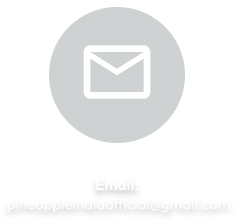
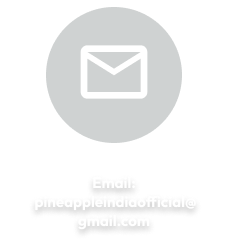
made responsive updates

diff --git a/src/Components/ContactUs.module.css b/src/Components/ContactUs.module.css
@@ -19,24 +19,47 @@
   display: flex;
   justify-content: center;
   align-items: center;
+  gap: 2rem; /* Add some space between the images */
+  flex-wrap: wrap; /* Allow images to wrap on smaller screens */
 }
 
 .image img {
-  width: 30vw; /* Responsive width */
+  width: 20vw; /* Responsive width */
   height: auto;
-  max-width: 900px; /* Set max width to limit image size */
-  
+  max-width: 200px; /* Set max width to limit image size */
 }
 
-@media (max-width: 768px) {
+.contactAddress img{
+  width:10vw; 
+  height: auto;
+  max-width: 150px; 
+  margin-left: 1.8rem;
+  margin-top: 1.5rem;
+}
+@media (max-width: 1024px) {
   .headingContact {
     font-size: 2.5rem;
   }
 
-  .image img {
-    width: 90vw;
-    max-width: 800px;
+  .image {
+    flex-direction: column; /* Stack images vertically on mobile */
+    gap: 1rem; /* Adjust gap between images */
   }
+
+  .image img {
+    width: 30vw;
+    max-width: 400px;
+  }
+
+  .contactAddress img{
+    width:35vw; 
+    max-width: 150px; 
+    margin-left: 0;
+    margin-top: 0;
+   
+  }
+
+
 }
 
 @media (max-width: 480px) {
@@ -45,7 +68,15 @@
   }
 
   .image img {
-    width: 90vw;
+    width: 50vw;
     max-width: 800px;
+  }
+
+  .contactAddress img{
+    width:35vw; 
+    max-width: 150px; 
+    margin-left: 0;
+    margin-top: 0;
+   
   }
 }

diff --git a/src/Components/Header.module.css b/src/Components/Header.module.css
@@ -183,7 +183,18 @@
   scale: 1;
 }
 
-
+.signinbuttontext p{
+  font-size: 1rem;
+  color: white;
+  margin: 0;
+  padding: 0;
+  font-weight: 400;
+  text-transform: uppercase;
+  text-align: center;
+  position: relative;
+  align-items: center;
+  justify-content: center;
+}
 @media (max-width: 768px) {
   .signinbutton, .profileDisplay {
     padding: 10px 10px;
@@ -198,24 +209,25 @@
 @media (max-width: 768px) {
   .logo img {
     height: 60px;
-        width: 200px;
+    width: 240px;
 }
 
 @media (max-width: 480px) {
   .logo img {
-    height: 50px;
-    width: 180px;  
+    height: 70px;
+    width: 230px;
     padding-right: 20px;
+    bottom: 12px;
   }
 
   .signinbutton {
-    padding: 10px 5px;
-    font-size: 0.7rem;
-   
+    padding: 2px;
+            font-size: 0.8rem;
+            margin: 0;
+            width: 19vw;
   }
-
   .signinbuttontext p{
-    font-size: 0.7rem;
+    font-size: 12px;
   }
   .signinbutton:hover::before {
     scale: 6; 
@@ -249,11 +261,3 @@
   margin: 0;
 }
 
-.signinbuttontext p{
-  font-size: 0.8rem;
-  color: #000;
-  margin: 0;
-  padding: 0;
-  font-weight: 400;
-  text-transform: uppercase;
-}

diff --git a/src/pages/ProductView.module.css b/src/pages/ProductView.module.css
@@ -244,42 +244,15 @@ font-size: 17px;
 
 
 
-
-
-.customerReview {
-  position: fixed;
-  color: #000;
-} 
-
-.reviewInput{
-  margin-left: 2rem;
-  margin-top: 0;
-  padding: 0 ;
-  align-items: left;
-  color: black;
-  display: flex;
-  flex-direction: column;
-
-  
-}
-
-.reviewInput h3{
-  font-size: 30px;
-}
-
 .CustomerReviews{
-  padding: 6rem;
+  padding: 2rem;
   display: flex;
  
   align-items: center;
   justify-content: center;
   
 }
-.customerReviewscard{
- 
-  width: 60vw;
- 
-}
+
 
 .reviewSection h3, .CustomerReviews h3 {
   font-family: "outfit", sans-serif;
@@ -305,7 +278,6 @@ font-size: 17px;
   padding: 0.5rem;
   border-bottom: 1px solid #ddd;
   text-align: left; 
-
 }
 
 .alignCard{
@@ -328,7 +300,7 @@ font-size: 17px;
   margin-top: 1rem;
   display: flex;
   flex-direction: column;
-  
+
 }
 
 .reviewForm textarea {
@@ -358,7 +330,7 @@ font-size: 17px;
 .ReviewBar{
   display: flex;
   flex-direction: column;
-  width: 50vh;
+  width: 40vh;
   margin-bottom: 1rem;
   margin-top: 2rem;
 

diff --git a/src/Components/ContactUs.js b/src/Components/ContactUs.js
@@ -1,6 +1,8 @@
 import React from 'react';
-import classes from './ContactUs.module.css'; // Using CSS modules
-import group1 from '../images/Group 1.png'; // Ensure the correct image path
+import classes from './ContactUs.module.css'; 
+import group1 from '../images/Group 1.png'; 
+import group2 from '../images/Group 2.png'; 
+import group3 from '../images/Group 3.png'; 
 
 const ContactUs = () => {
     return (
@@ -8,7 +10,14 @@ const ContactUs = () => {
             <h2 className={classes.headingContact}>Contact Us</h2>
             <div className={classes.image}>
                 <img src={group1} alt="Placeholder 1" />
+                <img src={group2} alt="Placeholder 2" />
+                <div className={classes.contactAddress}>
+                    <img src={group3} alt="Placeholder 3" />
+                </div>
+                
             </div>
+           
+            
         </section>
     );
 };

diff --git a/src/pages/ProductView.js b/src/pages/ProductView.js
@@ -175,11 +175,12 @@ const ProductPage = () => {
             </Accordion.Item>
 
             <Accordion.Item eventKey="3" className={classes.accordionItem}>
-              <Accordion.Header className={classes.accordionHeader}>Shipping & Returns</Accordion.Header>
+              <Accordion.Header className={classes.accordionHeader}>Shipping & Exchange</Accordion.Header>
               <Accordion.Body className={classes.accordionBody}>
                 <ul>
-                  <li>Free shipping on orders over INR 1000.</li>
-                  <li>Easy returns within 30 days of purchase.</li>
+                  <li>Delivery charge of ₹100 will be levied on COD</li>
+                  <li>free delivery for online transactions</li>
+                  <li>Easy exchange within 4 days of purchase.</li>
                 </ul>
               </Accordion.Body>
             </Accordion.Item>

diff --git a/src/Components/Header.js b/src/Components/Header.js
@@ -69,12 +69,12 @@ const Header = () => {
               <div 
               onClick={() => {logout()}}
               >
-                <button onClick={() => { login(); } } className={styles.signinbutton}>
+                {/* <button onClick={() => { login(); } } className={styles.signinbutton}> */}
                  <div className={styles.signinbuttontext}>
                   <p> <strong>WELCOME</strong></p> 
-                  <p>{localStorage.getItem('name')}</p>
+                  <p>{localStorage.getItem('name')}!</p>
                  </div>
-                </button>
+                {/* </button> */}
               </div>
             ) : (
               <>

diff --git a/src/Components/Card.js b/src/Components/Card.js
@@ -32,7 +32,7 @@ const Card = ({ image, hoverImage, title, price, titleColor, priceColor, allSize
         )}
       </div>
       <h2 className={styles.cardTitle} style={{ color: titleColor, textAlign: 'center', fontWeight: 400 }}>{title}</h2>
-      <p className={styles.cardPrice} style={{ color: priceColor }}>  <span>₹ {2 * price}</span>  INR {price}</p>
+      <p className={styles.cardPrice} style={{ color: priceColor }}>  <span>₹ 899 </span>  INR {price}</p>
     </div>
   );
 };

diff --git a/src/Components/Card.module.css b/src/Components/Card.module.css
@@ -102,8 +102,10 @@
 
 @media (max-width: 480px) {
   .card {
-    max-width: 100%; /* Full width on extra-small screens */
-    padding: 8px; /* Reduced padding for very small screens */
+    max-width: 100%;
+    padding: 8px;
+    margin-bottom: 25px;
+    
   }
 
   .cardTitle {
